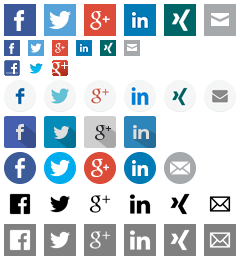
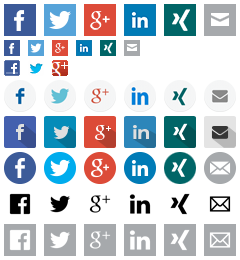
Updated README

diff --git a/system/modules/sharebuttons/assets/simpleicons/simpleicons_black.css b/system/modules/sharebuttons/assets/simpleicons/simpleicons_black.css
@@ -1,0 +1,41 @@
+/* source: http://simpleicons.org/ */
+
+.sharebuttons > ul.simpleicons_black > li > a {
+	width:32px;
+	height:32px;
+	background-image:url('sprites-black-32.png');
+}
+
+.sharebuttons > ul.simpleicons_black > li > a.facebook {
+	background-position:-40px 0;
+}
+
+.sharebuttons > ul.simpleicons_black > li > a.twitter {
+	background-position:-160px 0;
+}
+
+.sharebuttons > ul.simpleicons_black > li > a.gplus {
+	background-position:-80px 0;
+}
+
+.sharebuttons > ul.simpleicons_black > li > a.linkedin {
+	background-position:-120px 0;
+}
+
+.sharebuttons > ul.simpleicons_black > li > a.xing {
+	background-position:-200px 0;
+}
+
+.sharebuttons > ul.simpleicons_black > li > a.mail {
+	background-position:0 0;
+}
+
+@media only screen and (-webkit-min-device-pixel-ratio: 1.3),
+       only screen and (-o-min-device-pixel-ratio: 13/10),
+       only screen and (min-resolution: 120dpi) 
+{
+	.sharebuttons > ul.simpleicons_black > li > a {
+		background-size:auto 32px;
+		background-image:url('sprites-black-64.png');
+	}
+}

diff --git a/system/modules/sharebuttons/assets/simpleicons/simpleicons_white.css b/system/modules/sharebuttons/assets/simpleicons/simpleicons_white.css
@@ -1,0 +1,41 @@
+/* source: http://simpleicons.org/ */
+
+.sharebuttons > ul.simpleicons_white > li > a {
+	width:32px;
+	height:32px;
+	background-image:url('sprites-white-32.png');
+}
+
+.sharebuttons > ul.simpleicons_white > li > a.facebook {
+	background-position:-40px 0;
+}
+
+.sharebuttons > ul.simpleicons_white > li > a.twitter {
+	background-position:-160px 0;
+}
+
+.sharebuttons > ul.simpleicons_white > li > a.gplus {
+	background-position:-80px 0;
+}
+
+.sharebuttons > ul.simpleicons_white > li > a.linkedin {
+	background-position:-120px 0;
+}
+
+.sharebuttons > ul.simpleicons_white > li > a.xing {
+	background-position:-200px 0;
+}
+
+.sharebuttons > ul.simpleicons_white > li > a.mail {
+	background-position:0 0;
+}
+
+@media only screen and (-webkit-min-device-pixel-ratio: 1.3),
+       only screen and (-o-min-device-pixel-ratio: 13/10),
+       only screen and (min-resolution: 120dpi) 
+{
+	.sharebuttons > ul.simpleicons_white > li > a {
+		background-size:auto 32px;
+		background-image:url('sprites-white-64.png');
+	}
+}

diff --git a/system/modules/sharebuttons/assets/shadow/shadow.css b/system/modules/sharebuttons/assets/shadow/shadow.css
@@ -1,0 +1,41 @@
+/* source: http://wegraphics.net/downloads/free-long-shadow-social-media-icons/ */
+
+.sharebuttons > ul.shadow > li > a {
+	width:32px;
+	height:32px;
+	background-image:url('sprites-32.png');
+}
+
+.sharebuttons > ul.shadow > li > a.facebook {
+	background-position:-40px 0;
+}
+
+.sharebuttons > ul.shadow > li > a.twitter {
+	background-position:-80px 0;
+}
+
+.sharebuttons > ul.shadow > li > a.gplus {
+	background-position:-120px 0;
+}
+
+.sharebuttons > ul.shadow > li > a.linkedin {
+	background-position:-160px 0;
+}
+
+.sharebuttons > ul.shadow > li > a.xing {
+	background-position:0 0;
+}
+
+.sharebuttons > ul.shadow > li > a.mail {
+	background-position:-200px 0;
+}
+
+@media only screen and (-webkit-min-device-pixel-ratio: 1.3),
+       only screen and (-o-min-device-pixel-ratio: 13/10),
+       only screen and (min-resolution: 120dpi) 
+{
+	.sharebuttons > ul.shadow > li > a {
+		background-size:auto 32px;
+		background-image:url('sprites-64.png');
+	}
+}

diff --git a/system/modules/sharebuttons/assets/simpleflat/simpleflat.css b/system/modules/sharebuttons/assets/simpleflat/simpleflat.css
@@ -3,28 +3,29 @@
 .sharebuttons > ul.simpleflat > li > a {
 	width:32px;
 	height:32px;
+	background-image:url('sprites-32.png');
 }
 
 .sharebuttons > ul.simpleflat > li > a.facebook {
-	background-image:url('simpleflat/facebook.png');
+	background-position:-40px 0;
 }
 
 .sharebuttons > ul.simpleflat > li > a.twitter {
-	background-image:url('simpleflat/twitter.png');
+	background-position:-160px 0;
 }
 
 .sharebuttons > ul.simpleflat > li > a.gplus {
-	background-image:url('simpleflat/gplus.png');
+	background-position:-80px 0;
 }
 
 .sharebuttons > ul.simpleflat > li > a.linkedin {
-	background-image:url('simpleflat/linkedin.png');
+	background-position:-120px 0;
 }
 
 .sharebuttons > ul.simpleflat > li > a.xing {
-	text-indent:0;
+	background-position:-200px 0;
 }
 
 .sharebuttons > ul.simpleflat > li > a.mail {
-	background-image:url('simpleflat/email.png');
+	background-position:0 0;
 }

diff --git a/system/modules/sharebuttons/config/config.php b/system/modules/sharebuttons/config/config.php
@@ -49,8 +49,8 @@ $GLOBALS['sharebuttons']['themes'] = array(
 	'boxxed_16'         => array('Boxxed (16px)'     ,'system/modules/sharebuttons/assets/boxxed/boxxed_16.css'),
 	'contao'            => array('Contao'            ,'system/modules/sharebuttons/assets/contao.css'),
 	'light'             => array('Light'             ,'system/modules/sharebuttons/assets/light/light.css'),
-	'shadow'            => array('Shadow'            ,'system/modules/sharebuttons/assets/shadow.css'),
-	'simpleflat'        => array('Simple Flat'       ,'system/modules/sharebuttons/assets/simpleflat.css'),
-	'simpleicons_black' => array('Simple Icons Black','system/modules/sharebuttons/assets/simpleicons_black.css'),
-	'simpleicons_white' => array('Simple Icons White','system/modules/sharebuttons/assets/simpleicons_white.css')
+	'shadow'            => array('Shadow'            ,'system/modules/sharebuttons/assets/shadow/shadow.css'),
+	'simpleflat'        => array('Simple Flat'       ,'system/modules/sharebuttons/assets/simpleflat/simpleflat.css'),
+	'simpleicons_black' => array('Simple Icons Black','system/modules/sharebuttons/assets/simpleicons/simpleicons_black.css'),
+	'simpleicons_white' => array('Simple Icons White','system/modules/sharebuttons/assets/simpleicons/simpleicons_white.css')
 );

diff --git a/README.md b/README.md
@@ -22,9 +22,15 @@ From top to bottom:
 - Simple Icons Black
 - Simple Icons White (grey background added for visibility)
 
-Be aware that not all themes support all buttons. 
+The "Contao" theme uses Contao's own icons, however only Facebook, Twitter and Google+ is available there.  There is also a theme called "Text", which simply aligns the elements horizontally, but leaves the textual content of each button visible.
 
-There is also a theme called "Text", which simply aligns the elements horizontally, but leaves the textual content of each button visible.
+The following themes offer higher resolution images for devices with high DPI:
+
+- Boxxed (16px)
+- Light
+- Shadow
+- Simple Icons Black 
+- Simple Icons White
 
 ## Template
 
@@ -49,3 +55,13 @@ $GLOBALS['TL_DCA']['tl_news']['fields']['sharebuttons_theme']['default'] = 'boxx
 ```
 
 Have a look at the `$GLOBALS['sharebuttons']['themes']` and `$GLOBALS['sharebuttons']['networks']` array in [`config/config.php`](https://github.com/fritzmg/contao-sharebuttons/blob/master/system/modules/sharebuttons/config/config.php) in order to find the key-string for your desired networks and theme.
+
+## Attributions
+
+### Icon sources
+
+- Boxxed: http://www.twelveskip.com/resources/icons/1091/boxxed-flat-social-media-icons
+- Light: http://www.kplitsolutions.com/freebies.html
+- Shadow: http://wegraphics.net/downloads/free-long-shadow-social-media-icons/
+- Simple Flat: http://simplesharingbuttons.com/
+- Simple Icons: http://simpleicons.org/
